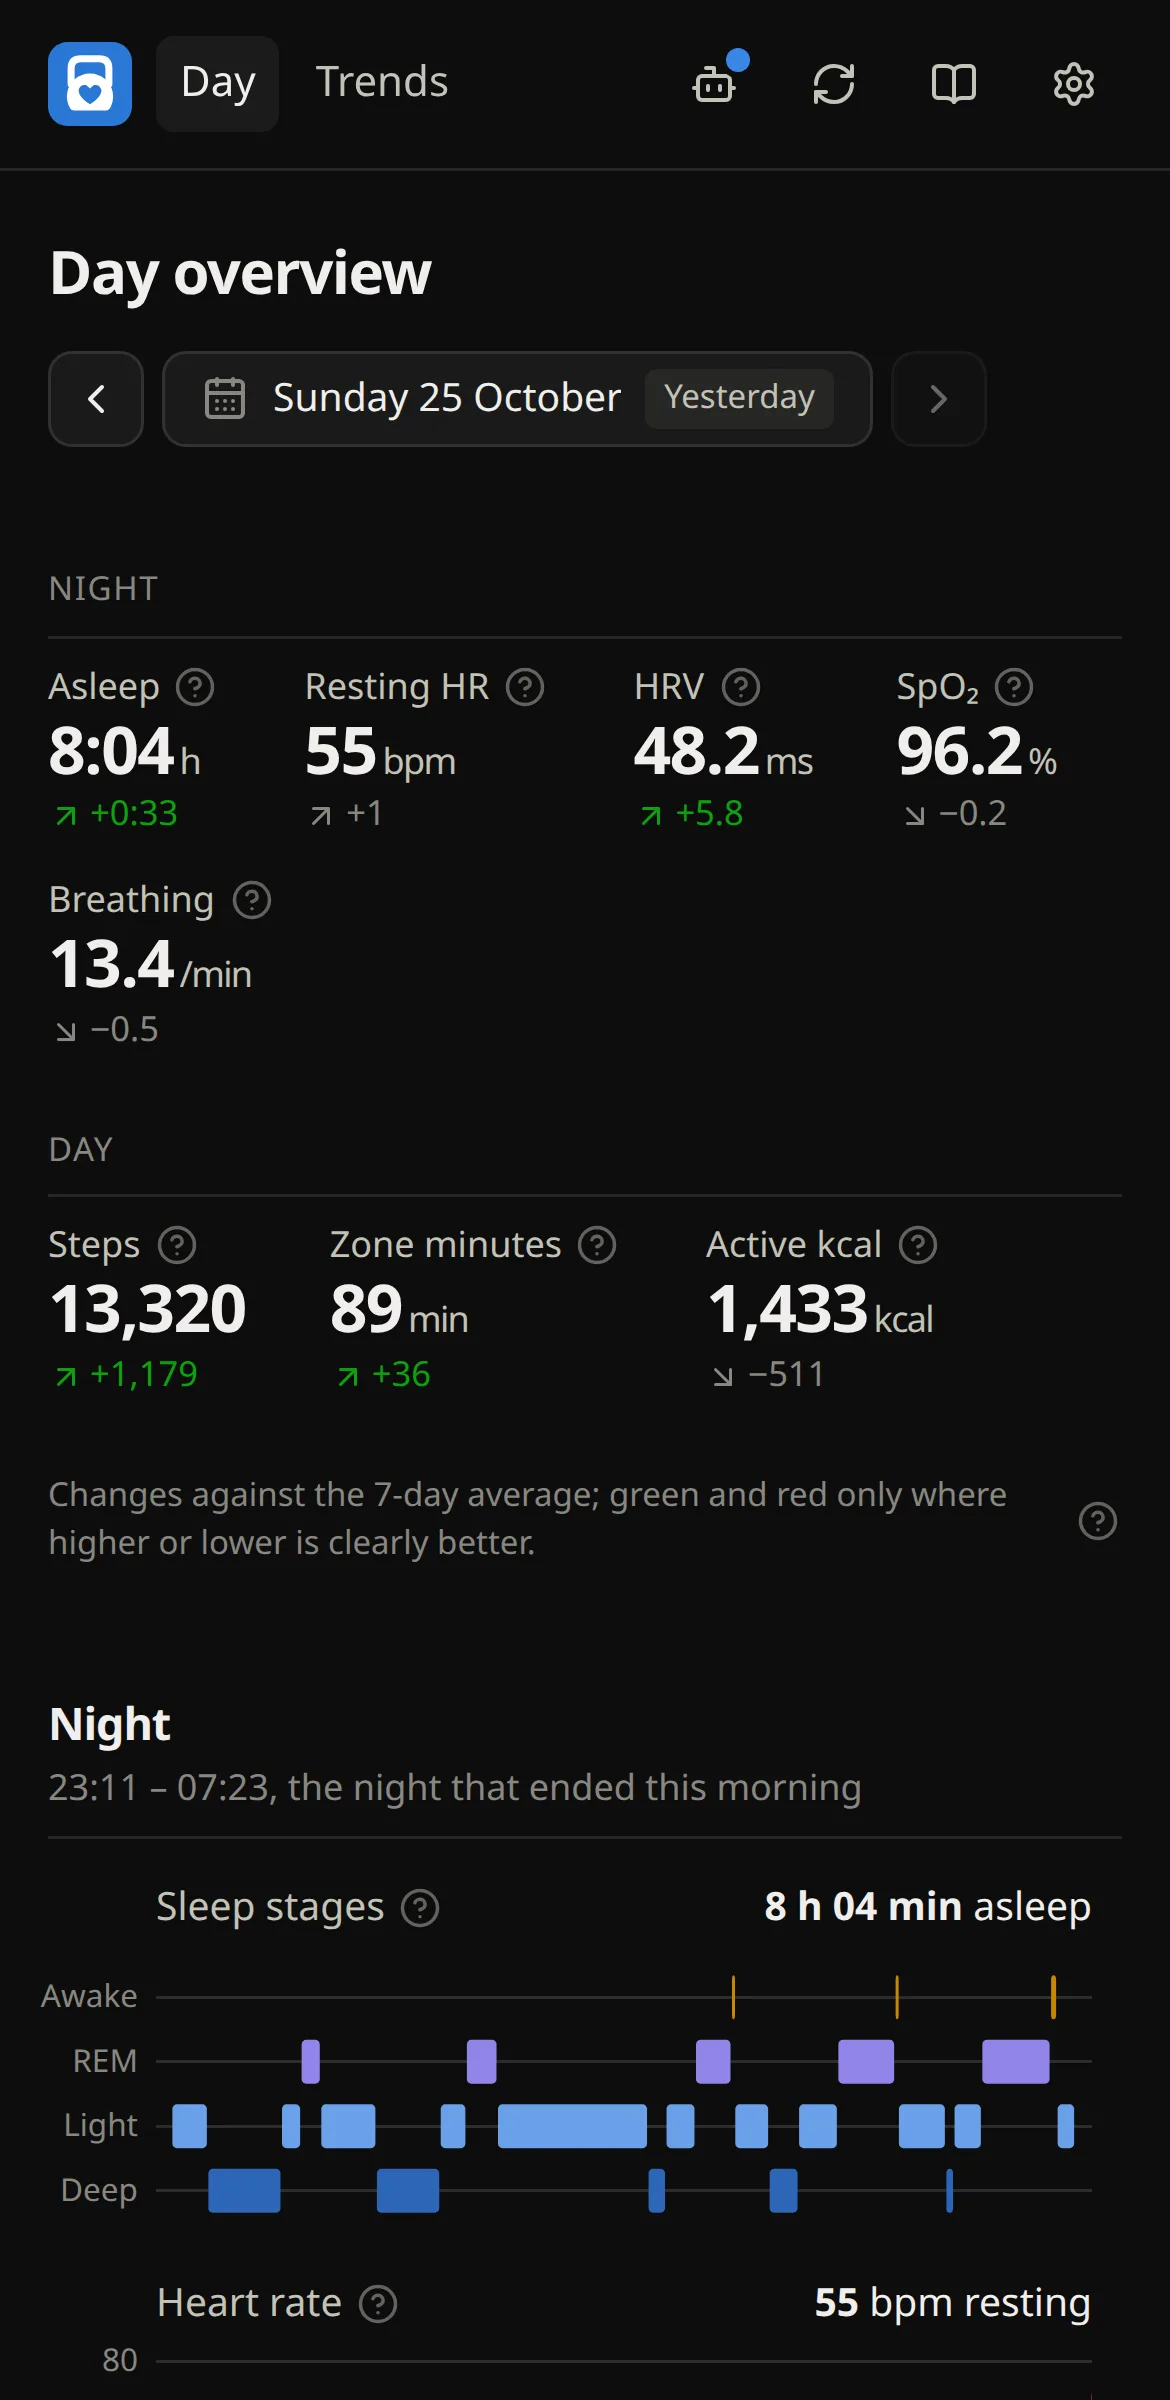
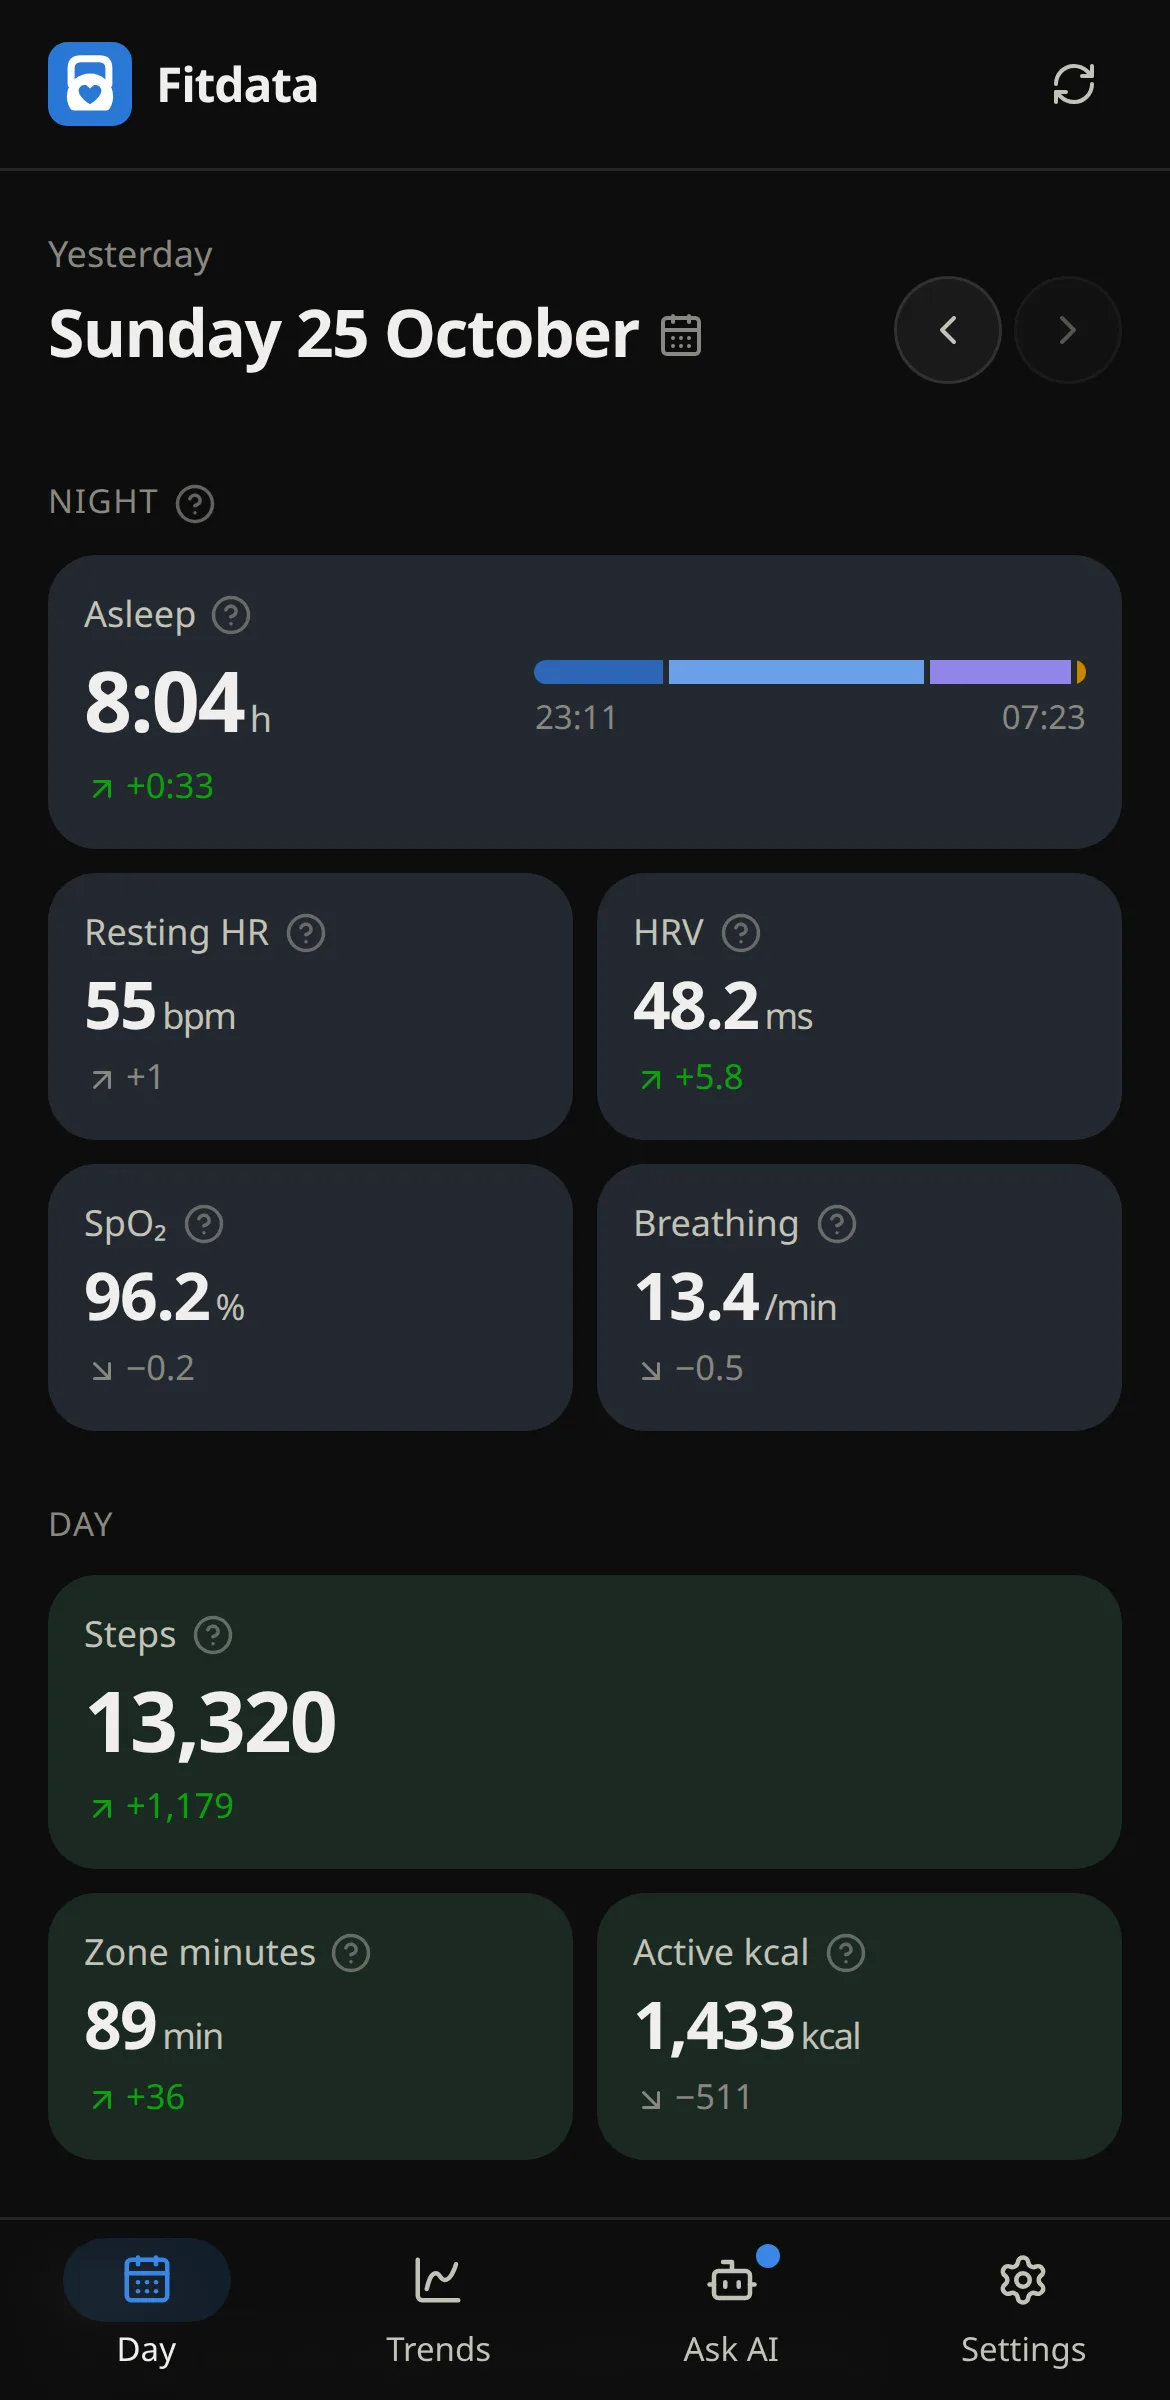
Home page: phone screenshots of the new mobile design
The comparison's Fitdata phone showed the old mobile layout. It is shot
again on the same made-up data with the tiles, the date as the title and
the tab bar, in light and dark; the alt text says what is on it. The
hero and link preview show the desktop night view, which didn't change.

diff --git a/frontend/home.html b/frontend/home.html
@@ -176,7 +176,7 @@
             <div class="aspect-[9/18.5] overflow-hidden rounded-[2.4rem] border-[7px] border-[#1d1d1c] bg-surface shadow-[0_24px_60px_-28px_rgba(11,11,11,0.45)] ring-1 ring-border">
               <picture>
                 <source srcset="/src/home/phone-dark.webp" media="(prefers-color-scheme: dark)" />
-                <img src="/src/home/phone-light.webp" alt="Fitdata on a phone: last night&apos;s sleep, resting heart rate, HRV, SpO₂ and breathing, then the day&apos;s steps, zone minutes and active calories, each with its change against the week, and the night&apos;s sleep stages below" width="1170" height="2400" class="block h-full w-full object-cover object-top" loading="lazy" />
+                <img src="/src/home/phone-light.webp" alt="Fitdata on a phone: tiles with last night&apos;s sleep (with its stages, 23:11 to 07:23), resting heart rate, HRV, SpO₂ and breathing, then the day&apos;s steps, zone minutes and active calories, each with its change against the week, and a tab bar for Day, Trends, Ask AI and Settings" width="1170" height="2400" class="block h-full w-full object-cover object-top" loading="lazy" />
               </picture>
             </div>
           </figure>
